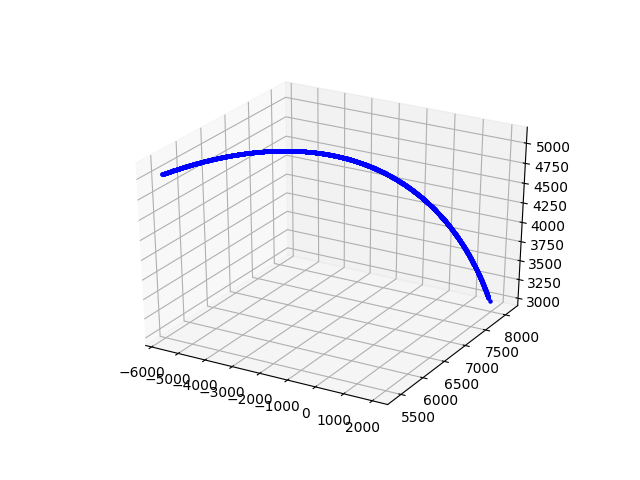
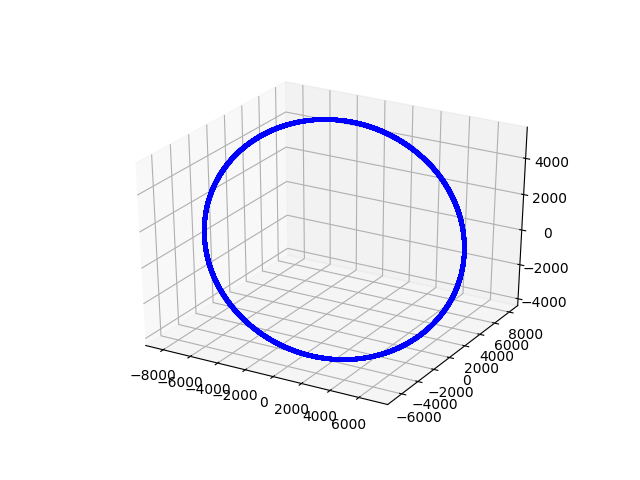
solved laser sat_distance problem

Changed region(s): [[0.2188, 0.1875, 0.9062, 0.8438], [0.1875, 0.75, 0.5938, 0.9062], [0.625, 0.75, 0.75, 0.9062]]

diff --git a/orbit_simulation.py b/orbit_simulation.py
@@ -14,7 +14,7 @@ from mpl_toolkits import mplot3d
 import numpy as np
 import matplotlib.pyplot as plt
 
-sat_pos_objs = get_list_of_sat_pos_objs(2000, "data/output.txt")
+sat_pos_objs = get_list_of_sat_pos_objs(20, "data/output.txt")
 
 
 def create_sat_list(sat_pos_objs):
@@ -41,25 +41,22 @@ fig = plt.figure()
 ax = fig.add_subplot(111, projection='3d')
 
 col = 'blue'
-simulation_time = 1400
+simulation_time = 7300
 
 
-laser = Laser(20.591099356884378, 172.64544855598336, 1, 1, 1)
+laser = Laser(21.01650402896028, 142.76481893728163, 1, 1, 1)
 
 
 
 for i in range(simulation_time):
-
-
     TEST.move_in_orbit(1)
     velocity = TEST.calc_velocity()
     height_surface = TEST.calc_height()
 
-    lat, lon = TEST.get_lat_long()
+    lat, lon  = TEST.get_lat_long()
 
     print(lat, lon)
-
-
+    print(laser.lat, laser.long)
 
     d = laser.sat_distance(TEST)
 
@@ -67,19 +64,17 @@ for i in range(simulation_time):
 
     ax.scatter(TEST.x, TEST.y, TEST.z, s=20, c=col, marker='.')
 
-    if d < 700:
-        print("LASER HIT")
-        TEST.change_mean_motion(3)
-        col = 'red'
-
-
-
+    # if i == 7200:
+    #     print("LASER HIT")
+    #     TEST.change_mean_motion(5.0)
+    #     col = 'red'
 
 
 
 print("\nCreating figure...")
-print("Figure saved in plots/sim.png!")
 plt.savefig('plots/sim.png')
+print("Figure saved in plots/sim.png!")
+
 
 
 

diff --git a/laser.py b/laser.py
@@ -9,7 +9,7 @@ from mpl_toolkits import mplot3d
 import numpy as np
 import matplotlib.pyplot as plt
 import geopy.distance
-
+import ephem
 
 """
 This class contains a Laser object
@@ -28,15 +28,22 @@ class Laser(object):
 
 
 	def sat_distance(self, satellite: Satellite):
-		lat_sat, long_sat = satellite.get_lat_long()
-		coords_sat = (lat_sat, long_sat)
-		coords_laser = (self.lat, self.long)
-		surface_d = geopy.distance.vincenty(coords_sat, coords_laser).km
-		sat_height = satellite.calc_height()[1]
 
-		d = np.sqrt(surface_d**2 + sat_height**2)
+		laser = ephem.Observer()
+		laser.lon = str(self.long)
+		laser.lat = str(self.lat)
+		laser.elevation = 0
+		year, month, day, hour, minutes, sec = satellite.orbital_time
+		laser.date = datetime(year, month, day, hour, minutes, sec)
 
-		return d
+
+		tle_rec = ephem.readtle("SAT", satellite.l1, satellite.l2)
+		tle_rec.compute(laser)
+
+		d = tle_rec.range
+
+
+		return d/1000
 
 
 	def calc_velocity_change(self):
@@ -53,7 +60,7 @@ class Laser(object):
 			print(satellite.get_position_and_velocity[1])
 
 
-		return satellite_object
+		return satellite
 
 
 		

diff --git a/satellite.py b/satellite.py
@@ -71,6 +71,8 @@ class Satellite(object):
 		tle_rec.compute(time)
 		lati = (tle_rec.sublat / degree)
 		longi = (tle_rec.sublong / degree)
+
+
 		return lati, longi
 
 	def move_in_orbit(self, seconds):
